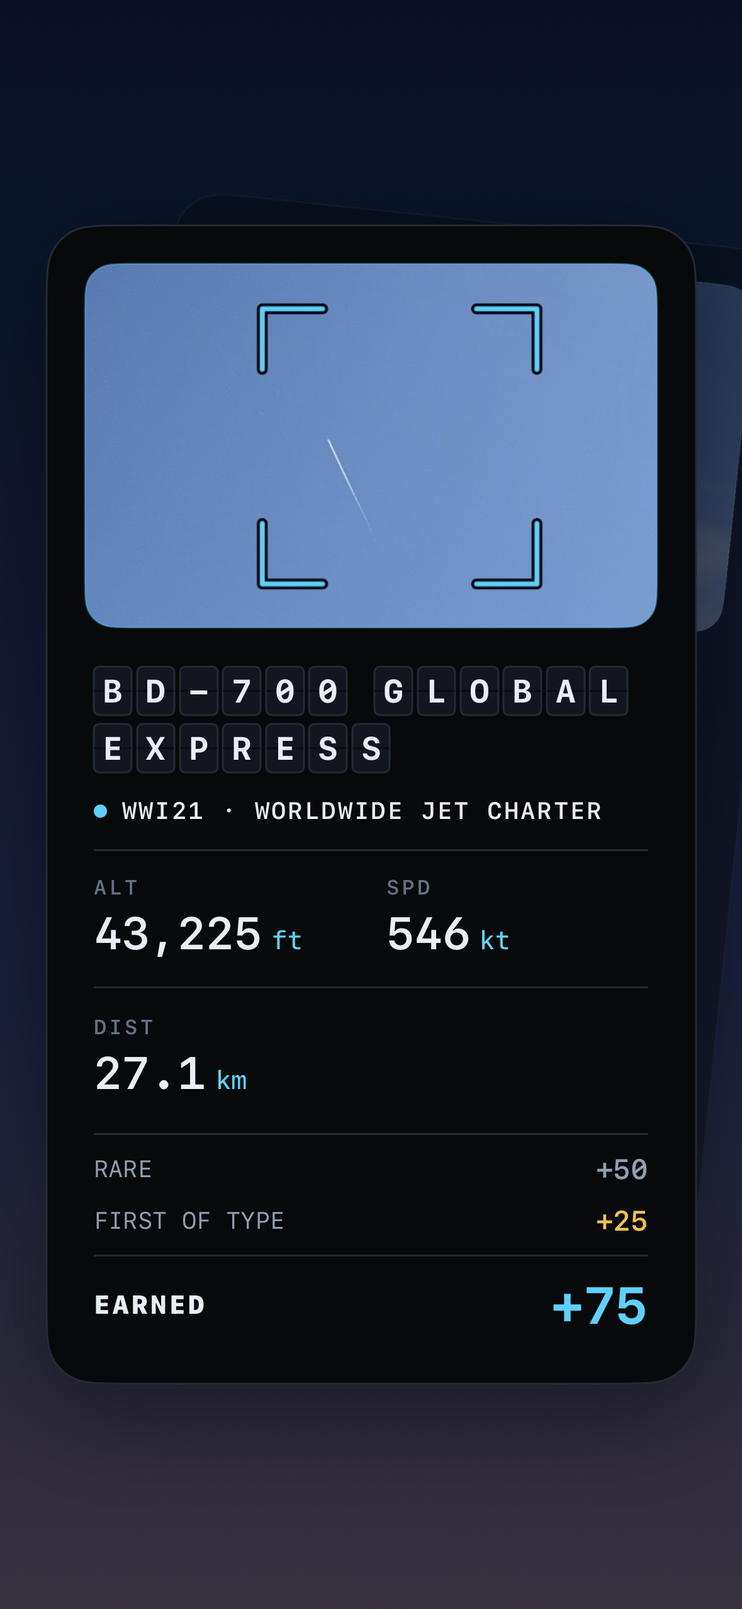
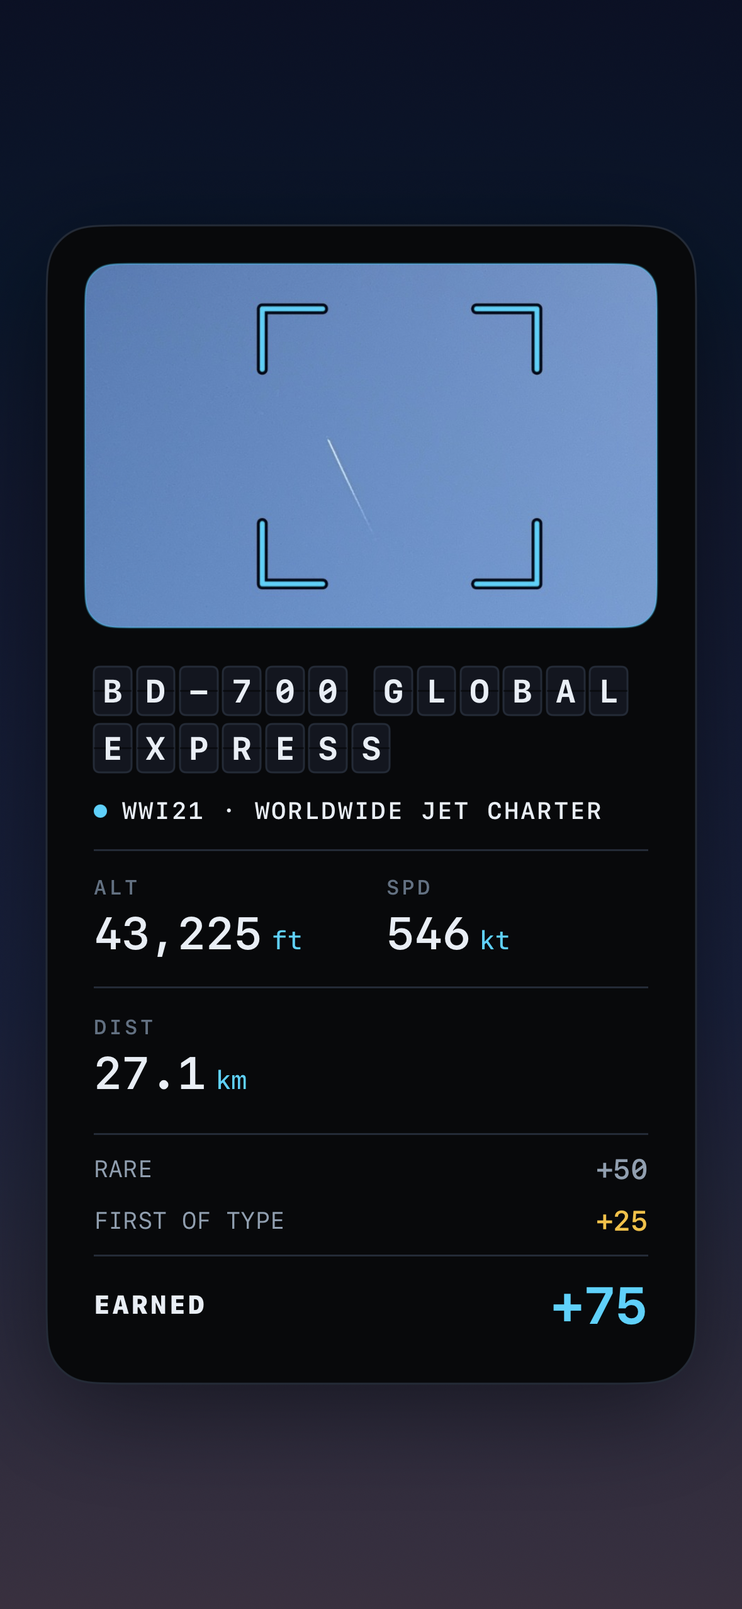
marketing: strip the status bar, the busted back card and the corner speck
Three fixes from Noah's review of the deck.

1. Slide 1's status bar is gone entirely — no time, carrier, wifi or
   battery. The first pass rebuilt a clean idle bar; it still read wrong.
   The app simply hides the status bar now, which is what most store
   screenshots do. Only the Dynamic Island stays, since that's hardware
   rather than status-bar content.

2. The collection card no longer stacks a second card behind the first.
   Three offsets were tried — peek below-right, corner-peek, with and
   without a hero photo — and every one showed a FRAGMENT of the back
   card, which reads as a rendering bug however it's positioned. Slide 4's
   Hangar grid already sells the collection; this slide shows one catch,
   legible. The c560 fixture went with it (its only consumer).

3. The decorative Contrail in slide-canvas.tsx is deleted. At export
   opacity its two trail lines fell below the visibility threshold and
   only the head dot survived, leaving a stray speck in the top-right of
   all six slides at every size.

Also hardened, because it nearly bit mid-session: a missing staged catch
photo now fails loudly via Issue.record instead of silently falling back
to the illustrated placeholder. /private/tmp is swept periodically, and
the placeholder looks plausible enough that a rendered-from-placeholder
card was one export away from the deck. Re-stage before every capture.

Tests: TailspotTests green. Bundle re-exported at all four iPhone sizes.
[…]

Changed region(s): [[0.916, 0.1545, 1.0, 0.4018]]

diff --git a/ios/Tailspot/TailspotTests/MarketingSnapshotTests.swift b/ios/Tailspot/TailspotTests/MarketingSnapshotTests.swift
@@ -144,12 +144,22 @@ struct MarketingSnapshotTests {
     private static let photoDir = dir.appendingPathComponent(
         "photos", isDirectory: true)
 
-    /// A staged real catch photo, or nil when the stage step wasn't run —
-    /// callers fall back to the striped placeholder rather than failing,
-    /// so the harness still produces a deck.
+    /// A staged real catch photo. Missing photos are recorded LOUDLY: /private/tmp
+    /// gets swept, and a silent nil here degrades the shot to the illustrated
+    /// placeholder — which once nearly shipped into the store deck looking
+    /// plausible. Fail visibly instead of producing a wrong-but-pretty asset.
     private func realPhoto(_ name: String) -> URL? {
         let url = Self.photoDir.appendingPathComponent("\(name).jpg")
-        return FileManager.default.fileExists(atPath: url.path) ? url : nil
+        guard FileManager.default.fileExists(atPath: url.path) else {
+            Issue.record("""
+                Missing staged catch photo "\(name).jpg" — this shot would render \
+                the illustrated PLACEHOLDER, not a real catch. Run \
+                `bin/marketing-stage-photos` and re-capture. (/private/tmp is \
+                swept periodically, so re-stage before every run.)
+                """)
+            return nil
+        }
+        return url
     }
 
     /// The rare BD-700 over Berkeley — 43,225 ft, a contrail, RARE tier and
@@ -178,19 +188,6 @@ struct MarketingSnapshotTests {
             photoFocus: CGPoint(x: 0.500, y: 0.500),
             originIcao: "YVR", destIcao: "SFO",
             originName: "Vancouver", destName: "San Francisco"
-        )
-    }
-
-    /// A private Citation V at 2.4 km — uncommon, first of type. Used as
-    /// the card peeking out BEHIND the front one, so what shows is its
-    /// right edge: clean blue sky there, unlike the A220's dark tree line.
-    private func c560() -> CardPlane {
-        CardPlane(
-            callsign: "N561SR", model: "560 Citation V", carrier: nil,
-            rarity: .uncommon, type: .biz,
-            altText: "5,125 ft", speedText: "259 kt", distText: "2.4 km",
-            photoURL: realPhoto("c560_uncommon"),
-            photoFocus: CGPoint(x: 0.500, y: 0.574)
         )
     }
 
@@ -309,13 +306,16 @@ struct MarketingSnapshotTests {
 
     /// "Add each catch to your collection" — the real BD-700 catch's settled
     /// card, its hero photo the actual JPEG the app composed at capture time,
-    /// with a real earlier catch (the private Citation V) peeking out behind it
-    /// so it reads as a growing stack, not a lone receipt. The sky behind is
-    /// the dusk gradient the app's own onboarding uses, so the card floats on
-    /// brand colour rather than a second competing photo.
+    /// floating on the dusk gradient the app's own onboarding uses.
+    ///
+    /// There is deliberately NO second card stacked behind it. Every offset
+    /// tried (below-right, corner-peek, with and without a photo) showed only
+    /// a FRAGMENT of the back card, and a fragment of a card reads as a
+    /// rendering bug rather than a collection — Noah called it busted, and he
+    /// was right. Slide 4's Hangar grid already sells the collection; this
+    /// slide's job is one catch, legible.
     @Test func renderCollectionCard() {
         let front = bd700()
-        let behind = c560()
         let view = ZStack {
             LinearGradient(
                 stops: [
@@ -325,10 +325,6 @@ struct MarketingSnapshotTests {
                 ],
                 startPoint: .top, endPoint: .bottom
             )
-            SettledCatchCard(plane: behind, isFirstOfType: false, width: 330)
-                .rotationEffect(.degrees(6))
-                .offset(x: 34, y: -44)
-                .opacity(0.35)
             SettledCatchCard(plane: front, isFirstOfType: front.isFirstOfType, width: 344)
                 .shadow(color: .black.opacity(0.45), radius: 28, y: 14)
         }

diff --git a/marketing/app-store-screenshots/src/components/editor/slide-canvas.tsx b/marketing/app-store-screenshots/src/components/editor/slide-canvas.tsx
@@ -733,9 +733,10 @@ function SlideBackground({
     >
       {theme.decor === "aviation" && !inverted ? (
         <>
+          {/* Contrails removed 2026-08-19: at export opacity the two trail
+              lines vanish and only the head dot survives, which reads as a
+              stray speck in the corner rather than a distant plane. */}
           <Blob cW={cW} color={theme.accent} x={-18} y={-12} size={50} opacity={0.18} />
-          <Contrail cW={cW} x={54} y={7} length={38} angle={-14} opacity={0.30} />
-          <Contrail cW={cW} x={4} y={86} length={22} angle={8} opacity={0.16} />
         </>
       ) : (
         <>
@@ -743,66 +744,6 @@ function SlideBackground({
           <Blob cW={cW} color={theme.accent} x={70} y={75} size={45} opacity={inverted ? 0.18 : 0.25} />
         </>
       )}
-    </div>
-  );
-}
-
-// ---------- Decorative contrail (aviation decor) ----------
-
-/// A distant plane drawn as pure CSS: a bright head dot trailing two thin
-/// parallel condensation lines that fade out behind it. No glyphs/emoji so
-/// html-to-image exports it identically everywhere.
-function Contrail({
-  cW,
-  x,
-  y,
-  length,
-  angle,
-  opacity = 0.25,
-}: {
-  cW: number;
-  x: number;   // % of slide width
-  y: number;   // % of slide height
-  length: number; // % of slide width
-  angle: number;  // degrees; head is at the right end
-  opacity?: number;
-}) {
-  const line: React.CSSProperties = {
-    flex: 1,
-    height: Math.max(1.5, cW * 0.0018),
-    borderRadius: 999,
-    background: "linear-gradient(90deg, transparent 0%, rgba(232,244,255,0.85) 85%, rgba(232,244,255,0.3) 100%)",
-  };
-  return (
-    <div
-      aria-hidden
-      style={{
-        position: "absolute",
-        left: `${x}%`,
-        top: `${y}%`,
-        width: `${length}%`,
-        transform: `rotate(${angle}deg)`,
-        transformOrigin: "right center",
-        opacity,
-        pointerEvents: "none",
-        display: "flex",
-        alignItems: "center",
-        gap: cW * 0.006,
-      }}
-    >
-      <div style={{ display: "flex", flexDirection: "column", gap: cW * 0.004, flex: 1 }}>
-        <div style={line} />
-        <div style={line} />
-      </div>
-      <div
-        style={{
-          width: cW * 0.007,
-          height: cW * 0.007,
-          borderRadius: "50%",
-          background: "rgba(232,244,255,0.95)",
-          boxShadow: `0 0 ${cW * 0.01}px rgba(232,244,255,0.8)`,
-        }}
-      />
     </div>
   );
 }

diff --git a/PLAN.md b/PLAN.md
@@ -398,7 +398,7 @@ historical plans/specs/reviews. Still only planned:
 | 5 | ~~**Card-art medium decision (§6.3) → better-cards build**~~ | Bet B · Collection | — | **✅ RESOLVED 2026-07-09 — keep the current hero (own photo / placeholder); no new medium, no art spend.** Decided on-device via the Card Art Lab spike (see §6.3 for the full record). The "better-cards build" as scoped is retired; card excitement continues through the chrome/reveal polish already shipping in #6. |
 | 6 | **UX/UI polish sweep** (+ grounded-plane block + "tried it" badge, old #8/#11) | Bet B · craft | ~1–2d | First impressions for the launch cohort; lingering cruft that doesn't fit the new points scheme. The grounded-plane easter egg folds in as part of the same pass. **Early progress 2026-07-04:** the Recent `TailCard` now speaks the reveal's design language (hero model line + mono route with rarity-tinted arrow — branch `feat/recent-card-reveal-language`; review doc `docs/archive/reviews/2026-07-04-recent-card-reveal-language.html`). **2026-07-05:** the detail screen became the settled reveal card itself (Direction B, PR #103), and the share image + photo crop followed (share artboard = settled card in brand chrome; hero crop anchors on the plane via `Catch.photoFocusX/Y` — branch `feat/share-settled-focus`). **2026-07-08:** Profile/Settings legacy-artifact scrub for v1 (branch `polish/settings-v1-cleanup`): OpenSky data-source credit → adsb.lol; fake `PUBLIC` pill + onboarding public-profile toggle removed; Notifications placeholder + orphaned `TrophiesScreen` deleted; rarity-reference examples re-synced to the 2026-07-01 tiers; Settings on brand list chrome (was system-white in light mode). Details: CHANGELOG 2026-07-08. **2026-07-09 (branch `feat/catch-card-centering`, Noah field feedback):** the **flight number (callsign)** now shows on `SettledCatchCard` (right-aligned tier line); the photo actually **centers on the plane** — `CatchPhotoFocusRecovery` back-fills `photoFocus` from the baked cyan bracket for the 82/85 catches that had none (version-gated `CatchBackfill.backfillPhotoFocus`, off-MainActor), and `FocusFill` now zooms in (capped 1.6×) to pull outer-band planes to center. N415YX re-healed on its detected plane (the earlier "sub-floor speck" call was wrong — a targeted pass finds it at 15 px/0.54). The Hangar **list thumbnails** (`TailCard`) now center on the plane too via `FocusThumbnail` (ImageIO-downsampled, `FocusFill`-cropped — branch `feat/thumbnail-focus`). **2026-07-10 — polish sweep PR A ("the mechanical ten") SHIPPED** (branch `polish/mechanical-sweep`): the objective fixes from the full-app UI survey — stale "Settings → Identity" copy → "Profile → Settings"; Leaderboard List branded (was the last system-chrome List, white in light mode) + its section headers restyled to the mono ALL-CAPS pattern; empty AccentColor asset filled with brand cyan; `Color.primary` legal-link leak → `Brand.Color.textPrimary`; a11y labels on the catch-detail chrome pills; 44 pt hit targets (contentShape inset, no visual bloat) on the chrome pills + Hangar child-bar back; dead `ComingSoonPill.swift` deleted; re-typed hexes routed through Brand (`ledgerGold`, `duplicateRose`, `Rarity.rare` → `Brand.Color.cyan` — zero pixel drift, snapshot-verified); Reduce Motion coverage for the reveal split-flap (fade to identical settled frame), MultiCatchReveal (plain fades, cadence kept), Figure8Animation (static path), and the empty-sky pulse dot. Details: CHANGELOG 2026-07-10. **2026-07-10 — taste-call PR B ("the taste calls") BUILT** (branch `polish/taste-calls`): Noah's seven verdicts — app locked to dark (`preferredColorScheme(.dark)` at the root; PR A's light-mode compensations kept as belt-and-suspenders); `Brand.Radius` token scale (chip 6 / row 12 / card 16 / hero 26; 69 literals snapped, computed/dims-table/tiny-accent/HUD-bracket exceptions left literal); `Brand.Font.display` (26 pt bold) as the ONE prose-head size (nine freelancing heads converted) + the mono-vs-system type rule codified in Brand.swift; dry voice (indoor hint → "Not many planes indoors."; unclaimed handle = designed CLAIM YOUR HANDLE state on the Profile header instead of "@spotter_42", Settings no longer prefills the placeholder); Profile Liquid Glass KEPT, duplicate-catch haptic KEPT, nav-chrome rule codified doc-only (custom chrome = game surfaces, stock-but-branded = utility screens). Details: CHANGELOG 2026-07-10. **Sweep remainder: Noah's on-device field pass** over the taste calls (D1/D3/D6 want feel, not screenshots) + the still-open grounded-plane "tried it" badge. **2026-07-12 — HIG compliance pass SHIPPED** (branch `hig-compliance-fixes`, from the full-app HIG audit + the `ehmo/platform-design-skills` cross-check): (1) **Dynamic Type end-to-end** — Brand system tokens now ride the built-in text styles (identical metrics at default, so zero pixel drift), `Brand.Font.mono(…, relativeTo:)` anchors mono on every scrollable surface, the 26 pt display head became `.brandDisplayFont()` (`@ScaledMetric`), and **Bold Text** maps mono to the B612 Bold face via a `TailspotApp`-refreshed mirror; AR HUD + card artboards stay fixed BY CHOICE. (2) **VoiceOver on the catch loop** — AR plane labels are elements with pin/unpin actions (nearest-first), the reveal announces the result on settle, `FlapRow` reads as one label (kills letter-by-letter model names, reveal + Hangar hero), leaderboard/profile/cards/tiles/rows read as single combined elements, decorative symbols hidden app-wide. (3) **44 pt touch targets** on all 17 audited controls (contentShape insets — no visual bloat) + interactive sub-11 pt text bumped to 11. (4) Point fixes: Hangar sheet close pill, locked-Set-tile + dimmed-AR-label + version-footer contrast, Reduce Motion gates (empty-tap ripple, segmented pills, completion ring), capture bar clears the home indicator, launch screen paints bgPrimary (was a white flash on light-mode phones), orphaned `CardReveal.swift` deleted. New `DynamicTypeSnapshotTests` renders key screens at default vs `.accessibility2` as the scaling regression net. Audit + findings: the session's HIG artifact; review doc in `docs/archive/reviews/`. |
 | 7 | **Hangar restore/sync** (widened from old #14 Sets sync) | Bet D · Backend | ~2–3d | **SHIPPED — merged #125 (2026-07-11); backend prod deploy pending Noah's go.** Elevated by GA: the local-only Hangar (no sync, photos never uploaded) is tester-acceptable but a GA-scale catastrophic-loss risk — delete/replace the phone and the collection is gone (device-id Keychain fix #55 landed; restore is the open follow-up #58). Catches already upload; the gap is the restore path + Sets. **Restore-from-server merged #125**: backend `GET /v1/catches` (device-scoped, paged, airframe joins; NO schema change/migration) + iOS `HangarRestoreManager`/`HangarRestorePromptView` — empty-Hangar launch check → "N CATCHES FOUND" offer (photo caveat up front: photos are unrecoverable, catch-data only) → idempotent insert keyed on the upload uuid, born-uploaded (no re-POST), trophy-ledger reseed (no celebration flood), one `hangar_restored` event. Details CHANGELOG 2026-07-10. **Remaining for this row:** on-device reinstall field test (Noah), photo upload/sync decision (deliberately out of scope, issue #58), and Sets sync if it's ever more than restore. |
-| 8 | **GA-gate housekeeping** — ICAO DOC 8643 terms re-check (old #15, ~30 min), privacy policy + ToS, App Store assets/ASO, region-limited-launch confirm (§6.6) | Housekeeping · launch gate | ~2–3d spread | **Drafts done 2026-07-11 — `docs/ga/`** (branch `docs/ga-housekeeping`): revised privacy policy + ToS grounded in verified source (the hosted June-11 pages are stale — embedded PostHog SDK + session replay, continuous while-in-use location polls, and Hangar restore are all undisclosed), the Planespotters/adsb.lol licensing review (verdict: keep both; adsb.lol fully compliant; Planespotters compliant except the thumbnail itself isn't link-backed — one small `CatchDetailView` fix), the full App Store listing draft (name/subtitle/description/keywords, Games→Casual, 4+, honest nutrition-label table), and the 6.7" screenshot plan (capture on-device, frame to 1290×2796; guess-round shot gated on game-layer PR3). **Region decided: worldwide** (Noah, 2026-07 — supersedes §6.6's US+W. Europe default; mitigation = coverage caveat in the listing + empty-sky messaging). **Code-level gaps CLOSED 2026-07-11 (branch `feat/launch-readiness`; audit docs in PR #128):** session-replay privacy (scoped `.postHogMask()` on all catch-photo views; camera excluded structurally + pinned by `SessionReplayPrivacyTests`), Planespotters thumbnail-link fix + UA bump, PrivacyInfo.xcprivacy Linked=true truth-up (Photos declaration removed — never collected), `ITSAppUsesNonExemptEncryption=NO`, **MARKETING_VERSION → 1.0.0**, and the rewritten `web/public/privacy.html` + `terms.html` (effective 2026-07-11) — details CHANGELOG 2026-07-11. **Still open, all Noah/manual:** deploy tailspot-www with the rewritten pages (`cd web && flyctl deploy --remote-only`, Noah's go); the App Store Connect click-through (checklist in `docs/ga/appstore-listing.md` — privacy label/nutrition sync matching the manifest's Linked=true posture, age rating, availability=all regions, review notes + outdoor-catch demo video); the ICAO terms re-check (needs the live terms page). **App Store screenshots GENERATED 2026-07-20** (supersedes the field-session-first plan): the full 6-slide set — AR catch → collection card → guess round → Hangar sets → trophies → leaderboard, Noah's copy, no label eyebrows — exported at all four required iPhone sizes from the `marketing/app-store-screenshots/` editor (deck in `app-store-screenshots.json`, "tailspot-dusk" theme + contrail decor; the store-ready PNGs live in its gitignored `export/` + the editor's zip in `~/Downloads`, regenerable via Export bundle). Source captures render from real screens with fixture data via `MarketingSnapshotTests` (ImageRenderer for card shots; glass-bearing screens captured off the booted sim via the `tools/marketing-shot-watcher.sh` + flag-file handshake — offscreen capture garbles `.glassEffect`; the suite only runs with `TEST_RUNNER_MARKETING_CAPTURE=1`, CI skips it). The **field session now only replaces slide 1** (the AR shot is a stylized stand-in composed from the real HUD components — sim has no camera); slides 4–5 can optionally swap in Noah's real Hangar. **SUBMITTED TO THE APP STORE 2026-07-21 (v1.0.0, Waiting for Review)** — the ASC click-through is done. `tailspot-www` deployed 2026-07-21 with the rewritten privacy/ToS (effective 2026-07-11; previously repo-only — the live site had been serving the stale June-11 pages) plus a new **`/support` page** (mailto button to support@tailspot.app; this is the listing's support URL; Support footer link sitewide; `.content a.btn-primary` contrast fix for buttons on content pages). **Screenshots upgraded to REAL catches 2026-08-19** (branch `marketing/real-catch-photos`): slides 2 (collection card) and 3 (guess round) were rendering a synthetic dusk gradient with an SF Symbol airplane and invented catches (a Lufthansa A380, a Cathay 747-8F). They now render Noah's own catches — the BD-700 Global Express at 43,225 ft (RARE, first of type, +75) and the JetBlue A321neo up from Guayaquil — using the app's own composed catch JPEGs as hero photos. Ten real catch photos + a bracket-centre focus manifest live in `marketing/catch-photos/`, staged for the sim by `bin/marketing-stage-photos`; `MarketingSnapshotTests` gained a shared `writeOffscreen` writer because ImageRenderer draws any photo-bearing card as the yellow "no entry" placeholder. Slide 1's callsigns/tiers are now real too, but its SKY is still synthetic — the share-card crops are landscape strips and can't fill a portrait frame. **Finishing it needs the phone UNLOCKED**: the full-frame originals are in `Documents/catches/` and pull via `devicectl` (blocked on `kAMDMobileImageMounterDeviceLocked` on 2026-08-19). Re-export the bundle from the editor before the next submission. **Slide 1 replaced with a REAL field capture 2026-08-19** (Noah's HUD screenshot, CHH7925 over Berkeley): the synthetic dusk sky is gone from the whole deck. Retouch was cosmetic only — the in-progress call pill, screen-recording dot and mic indicator were painted out and the Dynamic Island/battery restored to idle, over sky extrapolated from the rows below. **The lock-on bracket was deliberately NOT moved**, though it sits low-right of the plane: everything else is cosmetic, but repositioning the bracket edits what the app did, and "the lock-on found the plane" is the product's core claim (the offset is invisible at store scale anyway). An aligned version exists at `docs/ga/screenshots-raw/01-hud-bracket-aligned-NOT-SHIPPED.png` if Noah decides otherwise. Source was 923 px wide (pasted, not the original file) and upscaled to 1179 — a re-shoot wants a closer plane, the bracket in the upper-middle third, DND on, and the original file. Bundle re-exported at all four sizes. Still open: the ICAO DOC 8643 terms re-check (now unblocked — live terms page is up), and riding out App Review (Resolution Center replies as needed; check the release-on-approval setting). |
+| 8 | **GA-gate housekeeping** — ICAO DOC 8643 terms re-check (old #15, ~30 min), privacy policy + ToS, App Store assets/ASO, region-limited-launch confirm (§6.6) | Housekeeping · launch gate | ~2–3d spread | **Drafts done 2026-07-11 — `docs/ga/`** (branch `docs/ga-housekeeping`): revised privacy policy + ToS grounded in verified source (the hosted June-11 pages are stale — embedded PostHog SDK + session replay, continuous while-in-use location polls, and Hangar restore are all undisclosed), the Planespotters/adsb.lol licensing review (verdict: keep both; adsb.lol fully compliant; Planespotters compliant except the thumbnail itself isn't link-backed — one small `CatchDetailView` fix), the full App Store listing draft (name/subtitle/description/keywords, Games→Casual, 4+, honest nutrition-label table), and the 6.7" screenshot plan (capture on-device, frame to 1290×2796; guess-round shot gated on game-layer PR3). **Region decided: worldwide** (Noah, 2026-07 — supersedes §6.6's US+W. Europe default; mitigation = coverage caveat in the listing + empty-sky messaging). **Code-level gaps CLOSED 2026-07-11 (branch `feat/launch-readiness`; audit docs in PR #128):** session-replay privacy (scoped `.postHogMask()` on all catch-photo views; camera excluded structurally + pinned by `SessionReplayPrivacyTests`), Planespotters thumbnail-link fix + UA bump, PrivacyInfo.xcprivacy Linked=true truth-up (Photos declaration removed — never collected), `ITSAppUsesNonExemptEncryption=NO`, **MARKETING_VERSION → 1.0.0**, and the rewritten `web/public/privacy.html` + `terms.html` (effective 2026-07-11) — details CHANGELOG 2026-07-11. **Still open, all Noah/manual:** deploy tailspot-www with the rewritten pages (`cd web && flyctl deploy --remote-only`, Noah's go); the App Store Connect click-through (checklist in `docs/ga/appstore-listing.md` — privacy label/nutrition sync matching the manifest's Linked=true posture, age rating, availability=all regions, review notes + outdoor-catch demo video); the ICAO terms re-check (needs the live terms page). **App Store screenshots GENERATED 2026-07-20** (supersedes the field-session-first plan): the full 6-slide set — AR catch → collection card → guess round → Hangar sets → trophies → leaderboard, Noah's copy, no label eyebrows — exported at all four required iPhone sizes from the `marketing/app-store-screenshots/` editor (deck in `app-store-screenshots.json`, "tailspot-dusk" theme + contrail decor; the store-ready PNGs live in its gitignored `export/` + the editor's zip in `~/Downloads`, regenerable via Export bundle). Source captures render from real screens with fixture data via `MarketingSnapshotTests` (ImageRenderer for card shots; glass-bearing screens captured off the booted sim via the `tools/marketing-shot-watcher.sh` + flag-file handshake — offscreen capture garbles `.glassEffect`; the suite only runs with `TEST_RUNNER_MARKETING_CAPTURE=1`, CI skips it). The **field session now only replaces slide 1** (the AR shot is a stylized stand-in composed from the real HUD components — sim has no camera); slides 4–5 can optionally swap in Noah's real Hangar. **SUBMITTED TO THE APP STORE 2026-07-21 (v1.0.0, Waiting for Review)** — the ASC click-through is done. `tailspot-www` deployed 2026-07-21 with the rewritten privacy/ToS (effective 2026-07-11; previously repo-only — the live site had been serving the stale June-11 pages) plus a new **`/support` page** (mailto button to support@tailspot.app; this is the listing's support URL; Support footer link sitewide; `.content a.btn-primary` contrast fix for buttons on content pages). **Screenshots upgraded to REAL catches 2026-08-19** (branch `marketing/real-catch-photos`): slides 2 (collection card) and 3 (guess round) were rendering a synthetic dusk gradient with an SF Symbol airplane and invented catches (a Lufthansa A380, a Cathay 747-8F). They now render Noah's own catches — the BD-700 Global Express at 43,225 ft (RARE, first of type, +75) and the JetBlue A321neo up from Guayaquil — using the app's own composed catch JPEGs as hero photos. Ten real catch photos + a bracket-centre focus manifest live in `marketing/catch-photos/`, staged for the sim by `bin/marketing-stage-photos`; `MarketingSnapshotTests` gained a shared `writeOffscreen` writer because ImageRenderer draws any photo-bearing card as the yellow "no entry" placeholder. Slide 1's callsigns/tiers are now real too, but its SKY is still synthetic — the share-card crops are landscape strips and can't fill a portrait frame. **Finishing it needs the phone UNLOCKED**: the full-frame originals are in `Documents/catches/` and pull via `devicectl` (blocked on `kAMDMobileImageMounterDeviceLocked` on 2026-08-19). Re-export the bundle from the editor before the next submission. **Slide 1 replaced with a REAL field capture 2026-08-19** (Noah's HUD screenshot, CHH7925 over Berkeley): the synthetic dusk sky is gone from the whole deck. Retouch was cosmetic only — the in-progress call pill, screen-recording dot and mic indicator were painted out and the Dynamic Island/battery restored to idle, over sky extrapolated from the rows below. **The lock-on bracket was deliberately NOT moved**, though it sits low-right of the plane: everything else is cosmetic, but repositioning the bracket edits what the app did, and "the lock-on found the plane" is the product's core claim (the offset is invisible at store scale anyway). An aligned version exists at `docs/ga/screenshots-raw/01-hud-bracket-aligned-NOT-SHIPPED.png` if Noah decides otherwise. Source was 923 px wide (pasted, not the original file) and upscaled to 1179 — a re-shoot wants a closer plane, the bracket in the upper-middle third, DND on, and the original file. Bundle re-exported at all four sizes. **Three follow-up fixes 2026-08-19 (Noah's review):** (1) the status bar is now removed ENTIRELY from slide 1 — no time, carrier, wifi or battery, only the Dynamic Island (hardware); the rebuilt-clean-bar version still read wrong. (2) The collection card's stacked back card is GONE — at every offset tried (below-right, corner-peek, with/without photo) only a FRAGMENT of the back card showed, which reads as a rendering bug; slide 4's Hangar grid already sells the collection. (3) The decorative `Contrail` in `slide-canvas.tsx` was deleted — at export opacity its two trail lines vanished and only the head dot survived, leaving a stray speck in the top-right of all six slides at every size. **Also hardened:** a missing staged catch photo now fails LOUDLY via `Issue.record` — `/private/tmp` is swept periodically and the harness had been silently degrading to the illustrated placeholder, which nearly shipped into the deck mid-session. Always run `bin/marketing-stage-photos` immediately before a capture. Still open: the ICAO DOC 8643 terms re-check (now unblocked — live terms page is up), and riding out App Review (Resolution Center replies as needed; check the release-on-approval setting). |
 | 9 | **Push alerts (v1.1 headline)** — (a) leaderboard/contest + (b) plane-overhead (rare + personal-gap) + (c) streak-protection (bbox watch → APNs) | Engagement bet | ~5–7d | **v1.1 HEADLINE (2026-07-21 re-prioritization — see the top of §9). Scope defined 2026-07-21 (Noah): three alert categories sharing one APNs foundation.** Still the marquee retention lever (DAU/WAU), and it pays off against an installed base — that base arrives with GA. **(a) Leaderboard/contest alerts** — rides the #12 dynamic-leaderboard machinery (calendar weeks, UTC close, decide-on-read champion freezing). Four moments: **board-close result** — your finishing spot when the week closes (top-3 gets podium/champion framing; open sub-call: alert top-3 only vs. every finisher); **closing-window nudge** — the board is about to close and a better rank is within reach ("N points from #2 — resets Monday"); **overtaken** — someone passed you mid-week (the opportunity-to-improve-your-rank hook); **new-board open** — fresh week, everyone at zero, the champion is there to be replaced. The backend already computes every trigger except *overtaken* (needs a rank-change watcher); most of (a)'s cost is scheduling/delivery, not new game logic. **(b) Plane-overhead alerts (rare + personal collection gap)** — the original concept (wishlist #5): the server watches the ADS-B feed around each device's area and pushes when an alert-worthy type is anticipated to pass overhead **under conditions it could plausibly be seen** (daylight, inside the visibility band the app already models, enough lead time to step outside) — a real chance to catch it and add to the score, and the strongest re-engage-from-outside-the-app lever. Alert-worthy means either: an **uncommon-or-rarer** tier, or (**personal-gap targeting, added 2026-07-21**) a type the device has **never caught** — globally common but personally novel (the PoGo "one you don't have" hook; first-of-type is already server-detectable from the device's uploaded catches, so no new data is needed). Gap targeting massively widens the alertable inventory without lowering the interestingness bar — every alert is a plane the user's collection wants. Set-completion targeting ("this completes your Widebody set") is a stretch goal: Sets are client-derived today, so the server would need the set definitions. **(c) Streak-protection alerts** (added 2026-07-21; gated on the daily catch-streak mechanic + LONGEST STREAK Profile stat riding v1.1 in parallel — see the header): when a live streak is about to lapse, one evening-local nudge — "your N-day streak ends at midnight — catch one today." Fires only for streaks worth protecting (≥3 days) and ideally only when the local sky actually has catchable traffic (reuses (b)'s watch machinery); the server computes the current streak from uploaded catches. Open sub-call: day boundary — lean **local midnight** (PoGo-style; users experience days locally) over UTC, unlike the leaderboard's deliberate UTC weeks. **Frequency discipline is a design requirement, not post-hoc tuning:** (b)+(c) share one hard cap (order ~1/day max across overhead + streak nudges; tier-weighted, and common types never fire unless personally novel) and (a) is capped per-week; every alert must be actionable the moment it arrives, or it trains users to disable notifications. Cross-cutting: manual APNs setup (developer-portal key + Xcode Push capability — Noah/manual); notification permission asked **in context** (after a first catch or when turning a category on — never at first launch); per-category opt-outs in Settings; and (b) needs a **stored coarse device location** (last-known bbox from catch uploads, or an opt-in) — a privacy-policy/§7 addition, since the current posture promises catch locations aren't retained as history. The push-alert-linked trophy (catch a plane you were alerted to) is (b)'s synergy candidate from the v1.1 header. |
 | 10 | Surface catch-sharing remaining + selectable reticle color + **Spotter Pass share/invite** | Bet C · Social / craft | ~hrs–2d | Mostly shipped (share-card image #38); low-priority polish. Reticle color pick (wishlist #2) parked here with it. **2026-07-08 addition (Noah-approved concept):** rework the profile share artboard as a boarding-pass-style **SPOTTER PASS** — rank where the seat goes, points as miles, perforated stub with a scannable challenge/invite code. Came out of the profile-layout exploration (Direction D, mock render in the 2026-07-08 review artifact); the pass is the *share/invite object*, not the profile layout itself. Effort grows past ~hrs once the scan code becomes a real invite deep link. **2026-07-08 (branch `feat/profile-standing-layout`):** the profile share settled on **deliberately minimal** — one tap → "Join me on Tailspot:" + the tailspot.app link (rich preview via the site's OG tags) + a `profile_share_opened` funnel event; a richer stat-card artboard with challenge copy + QR was built and cut as too much (git history / the exploration artifact have it if this item wants it back). Still here: per-user invite codes/deep link, joined-from-your-invite attribution, and the **invite trophy** (Noah — award it on a *friend actually joining*, which needs the attribution, not on tapping share). |
 | 12 | **Dynamic leaderboards** — week/month windows + weekly champions + leaderboard trophies | Bet B · Collection / engagement | ~2–3d | Makes the board winnable again for new players (all-time compounds forever; a weekly board resets the race) and feeds two new trophies. **Design locked 2026-07-09, Noah's calls L1–L6:** L1 **calendar** windows (THIS WEEK / THIS MONTH + all-time, not rolling), L2 **UTC** boundaries (Mon 00:00 / 1st 00:00), L3 **no winner floor** (whoever is #1 at week close wins, even with 1 catch; only a zero-catch week is champion-less), L4 **shared crowns on ties** (every tied device gets a `weekly_champions` row + a win), L5 **all three trophies** (weekly-win count, ever-topped-all-time, last week's champions surfaced), L6 **banner + laurel** presentation. **PR1 (backend) merged #131:** `GET /v1/leaderboard?window=week\|month\|all` (default `all`, old clients additive-only), in-window sums/ranks, `resetsAt`, last-closed-week `champions` (null handle = anonymous champion), `me.weeklyWins`/`me.everToppedAllTime`; decide-on-read lazy champion freezing (atomic INSERT…SELECT, idempotent, backfills all never-decided weeks since the earliest catch) + `alltime_toppers` ledger; migration `0007_leaderboard-windows.sql` was a manual prod apply (done — `window=week` is live in prod; see the follow-up fixes #134/#136). Details: CHANGELOG 2026-07-11. **PR2 (iOS) merged #132:** WEEK (default)/MONTH/ALL TIME tabs on `LeaderboardScreen` (mono segmented switcher, per-window response cache + silent refresh), reset countdown in device-local time ("RESETS MONDAY · 2D 14H LEFT" / "RESETS AUG 1"), LAST WEEK'S CHAMPION banner (shared crowns side by side, 3+ → "+N more", null handle → "anonymous spotter", empty → quiet no-champion line), per-window YOUR STANDING header, and the Profile **WEEKLY CHAMPION ×N** laurel cached in @AppStorage (L6). **FAIL-SOFT:** old backend (no `window` key) → tabs hide, all-time board renders unchanged — so PR2 can merge before PR1 deploys. Details CHANGELOG 2026-07-11. **PR3 (winner trophies) merged #135:** **Top Flight** (win a weekly board), **Dynasty** (SECRET, masked `???` — win 3), **Chart Topper** (ever hold #1 all-time) — SERVER-truth trophies off `me.weeklyWins`/`me.everToppedAllTime`, cached in the new `LeaderboardStandingCache` (written from the Profile/Leaderboard fetch completions, never inferred locally; offline-safe), new `TrophyProgressInputs` defaulted params, three new hex icons, `rosterVersion` 2→3 so pre-earned wins (Noah's crown backfill) absorb into ONE trophy-case recap, and a Profile-sheet-close re-diff so live crossings toast promptly. Details CHANGELOG 2026-07-11. **Feature complete.** |
